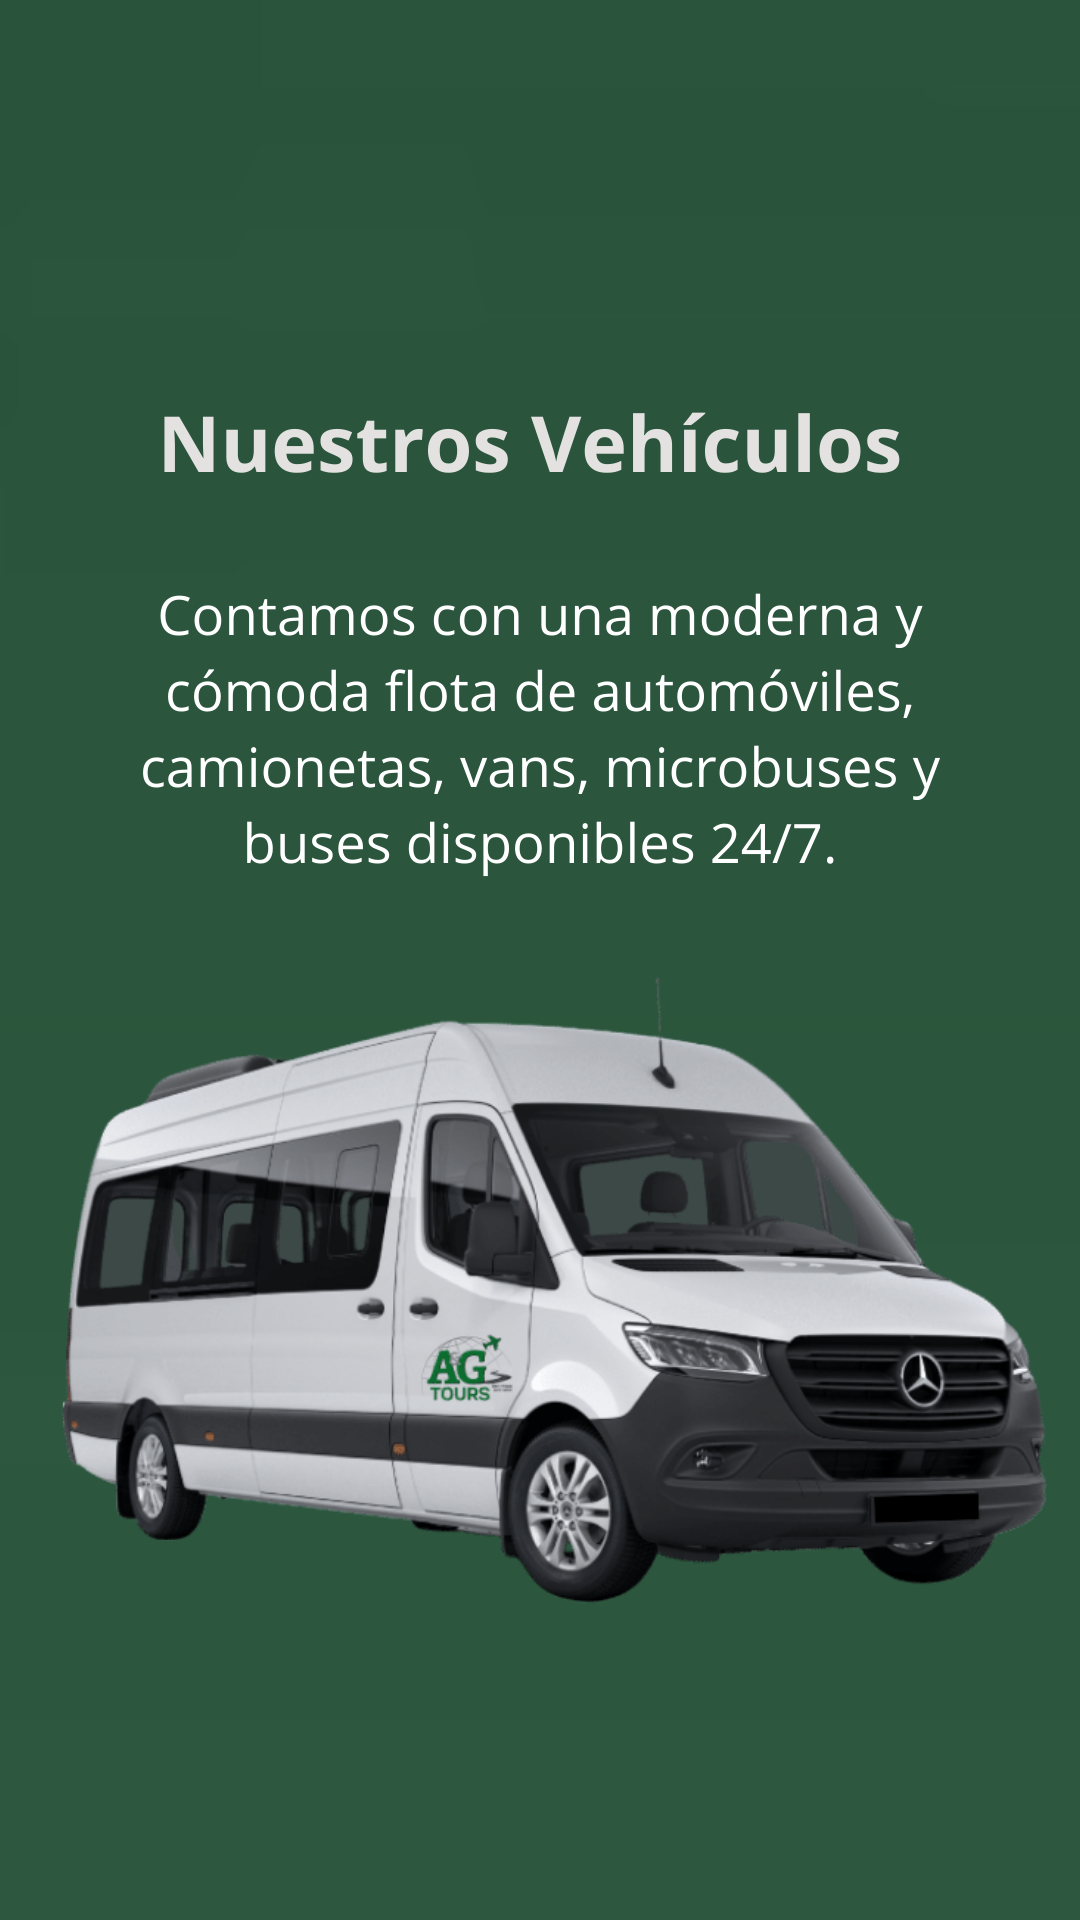
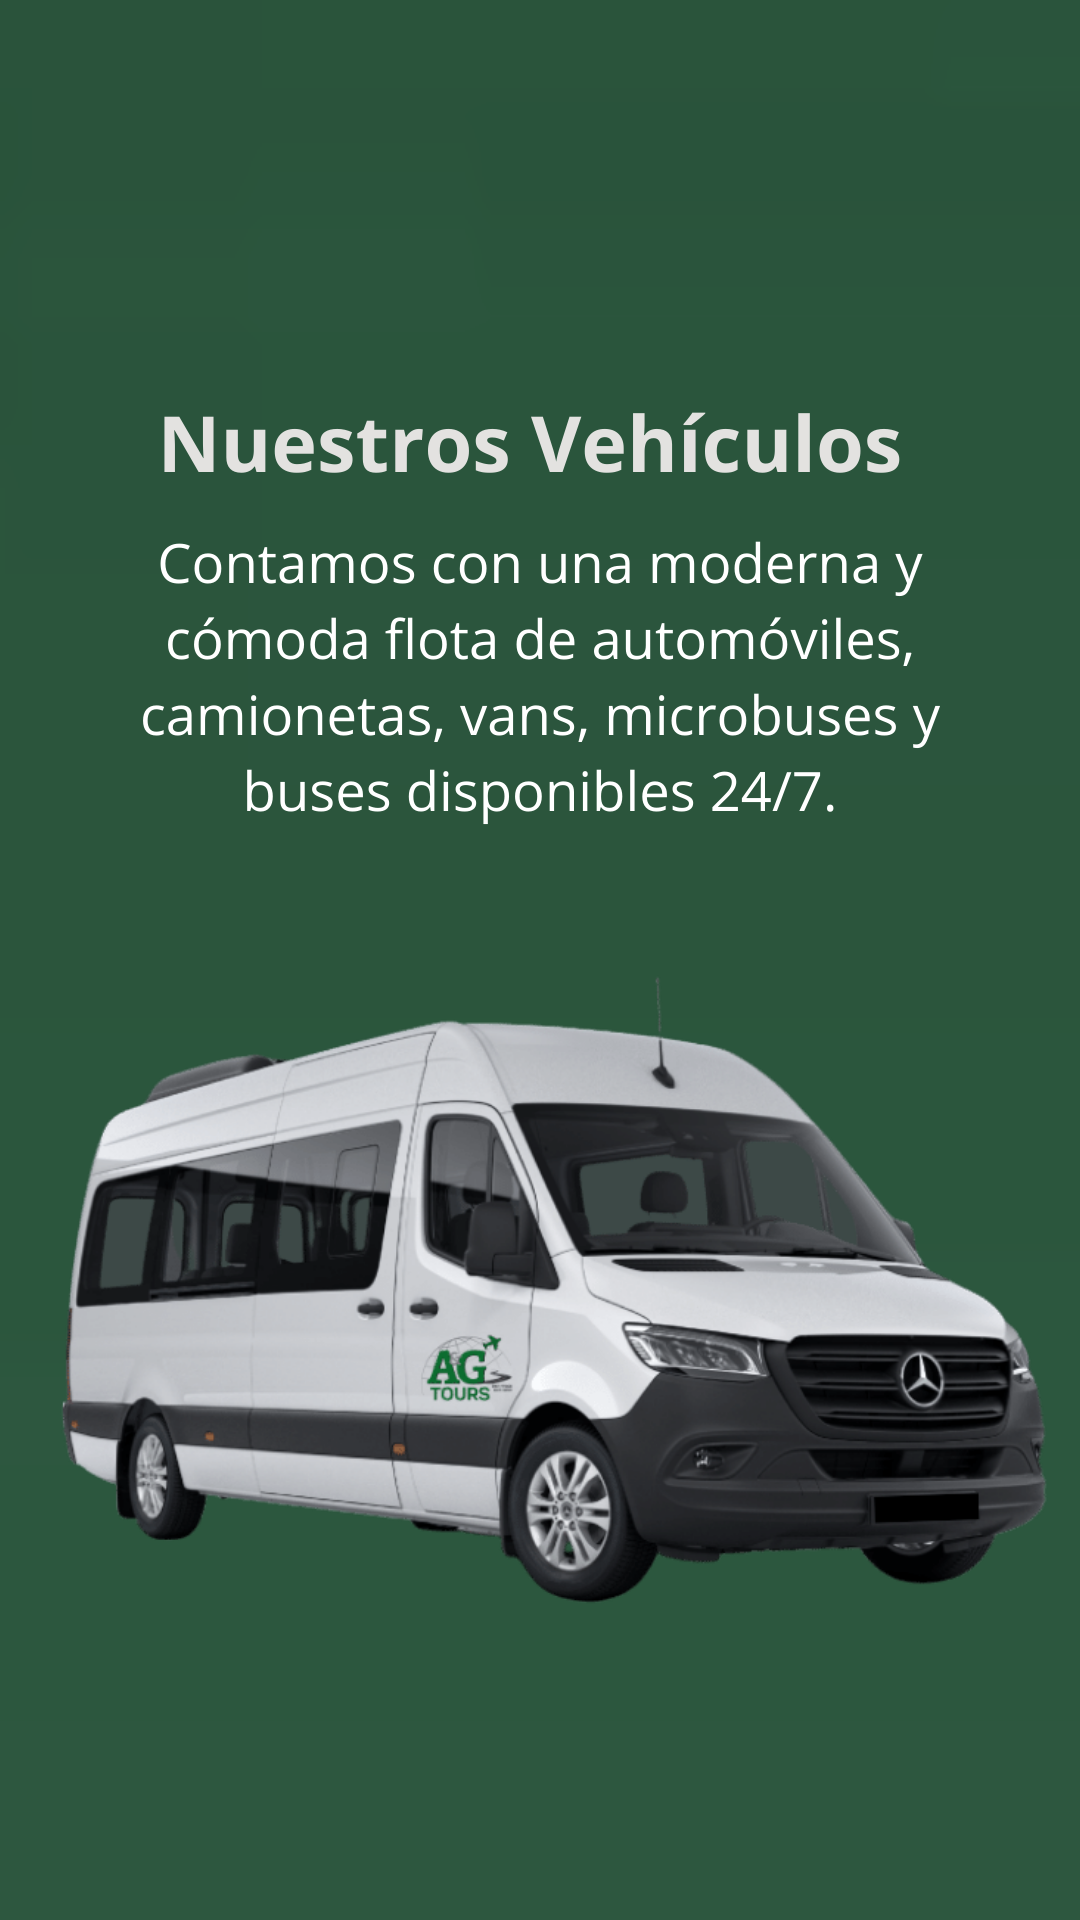
Cambio en algunas pestañas de la ventanda de departamentos.

Changed region(s): [[0.1222, 0.2812, 0.8861, 0.4688]]

diff --git a/docs/index.html b/docs/index.html
@@ -55,22 +55,22 @@
       <div class="slide active">
         <picture>
           <source srcset="img/slider/movilvehiculos.png" media="(max-width: 768px)" />
-          <img src="img/slider/Transporte confiable (3).png" alt="Nuestros vehiculos" />
+          <img src="img/slider/Nuestrosvehiculos.png" alt="Nuestros vehiculos" />
         </picture>
       </div>
-            <!-- <div class="slide">
+            <div class="slide">
         <picture>
-          <source srcset="img/slider/movilvehiculos.png" media="(max-width: 768px)" />
-          <img src="img/slider/Transporte confiable (3).png" alt="Nuestros vehiculos" />
+          <source srcset="img/slider/moviltransporte.png" media="(max-width: 768px)" />
+          <img src="img/slider/Transporteconfiable.png" alt="Nuestros vehiculos" />
         </picture>
-      </div> -->
-
-      <!-- <div class="slide">
-        <img src="img/Nuestros vehículos.png" alt="Transporte empresarial" />
       </div>
-      <div class="slide">
-        <img src="img/Transporte confiable (3).png" alt="Turismo" />
-      </div> -->
+
+            <div class="slide">
+        <picture>
+          <source srcset="img/slider/movilviaja.png" media="(max-width: 768px)" />
+          <img src="img/slider/Viajanosotros.png" alt="Nuestros vehiculos" />
+        </picture>
+      </div>
 
       <!-- Botones -->
       <button class="prev">&#10094;</button>
@@ -97,7 +97,7 @@
           <h3>Turismo</h3>
         </a>
                 <div class="servicio-card">
-          <img src="img/vehiculos/img/vehiculo3.jpg" alt="Transporte VIP" />
+          <img src="img/vehiculos/img/vehiculo7.jpg" alt="Transporte VIP" />
           <h3>Usuarios de la salud</h3>
         </div>
       </div>

diff --git a/docs/turismo.html b/docs/turismo.html
@@ -160,9 +160,9 @@
         <!-- <a href="turismo/departamentos/boyaca.html" class="city-card"> -->
         <a href="mantenimiento.html" class="city-card">
           <div class="carousel">
-            <img src="img/boyaca.webp" alt="Boyacá" />
-            <img src="img/boyaca1.webp" alt="Boyacá" />
-            <img src="img/boyaca2.webp" alt="Boyacá" />
+            <img src="img/quindio.webp" alt="Quindio" />
+            <img src="img/quindio3.webp" alt="Quindio" />
+            <img src="img/quindio2.webp" alt="Quindio" />
           </div>
           <div class="card-overlay">
             <h3>Quindio</h3>
